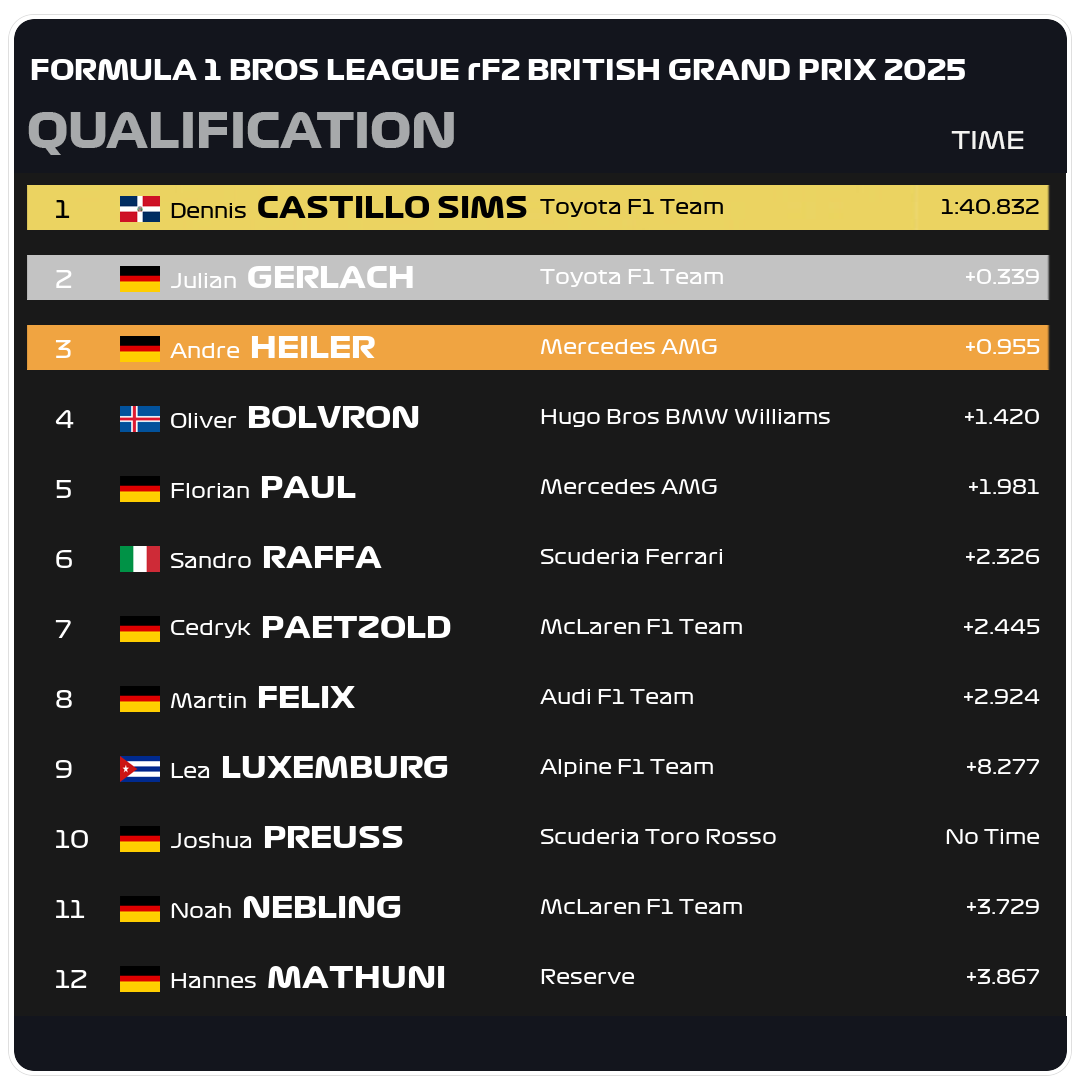
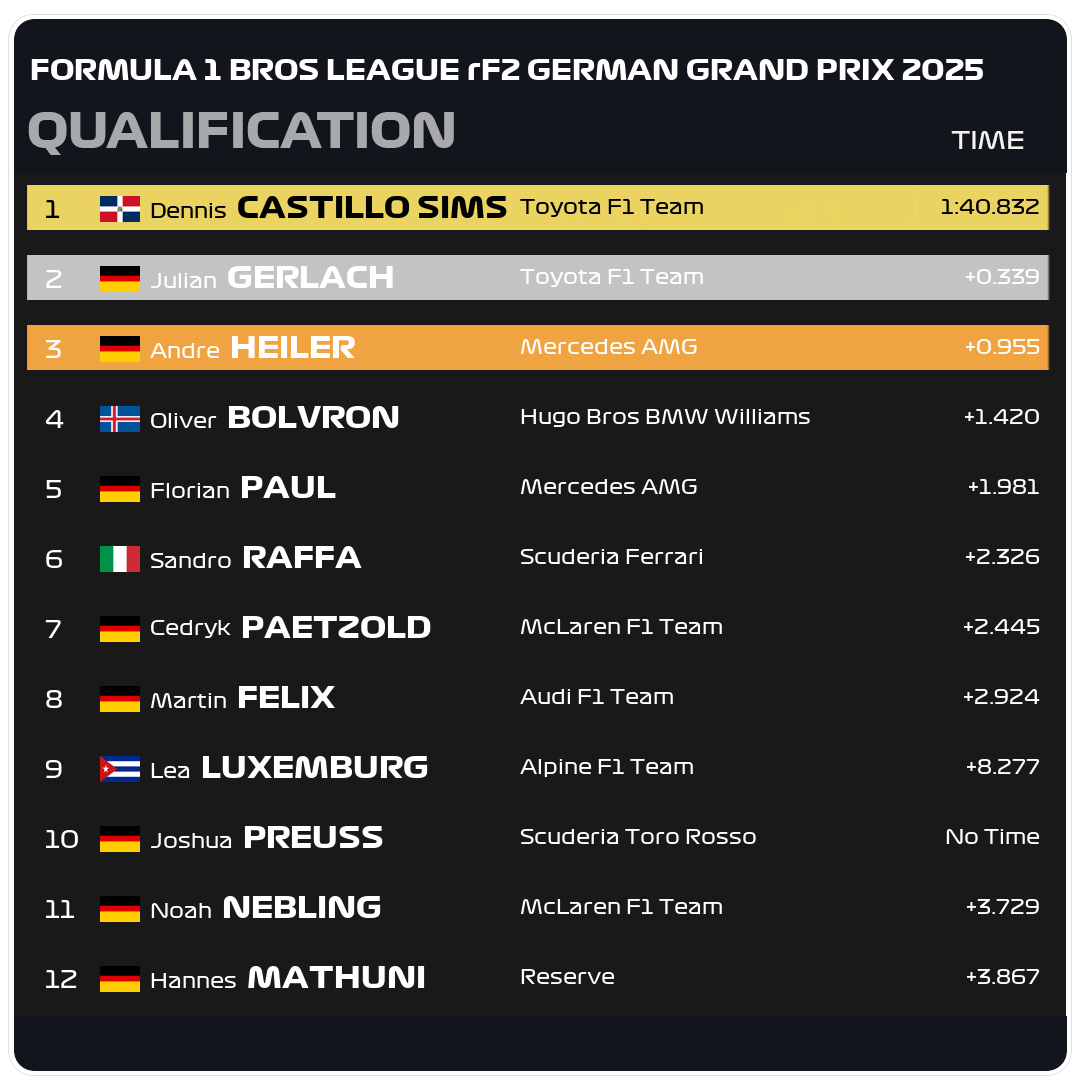
Rennergebnis im Insta format

diff --git a/main.py b/main.py
@@ -110,6 +110,7 @@ first_team_and_points = 232
 position_text = 556
 left_allignment = 620
 name_size = 20
+name_size_insta = 16
 row_height = 42
 
 fastest_lap_position = (556, 1006)
@@ -137,6 +138,7 @@ winner_number_position = (450, 80)
 winner_team_size = 55
 winner_name_pos = (288, 815)
 winner_name_size = 42
+
 #winner = Winner([])
 fastest_lap_driver = fastest_lap()
 
@@ -176,6 +178,7 @@ race_titel = ImageFont.truetype("./fonts/Formula1-Bold_web.ttf", size=34)
 race_titel_insta = ImageFont.truetype("./fonts/Formula1-Bold_web.ttf", size=28)
 race_classification = ImageFont.truetype("./fonts/Formula1-Bold_web.ttf", size=56)
 regular = ImageFont.truetype("./fonts/Formula1-Regular_web.ttf", size=name_size)
+insta = ImageFont.truetype("./fonts/Formula1-Regular_web.ttf", size=name_size_insta)
 penalty_font = ImageFont.truetype("./fonts/Formula1-Regular_web.ttf", size=penalty_text_size)
 position_font = ImageFont.truetype("./fonts/Formula1-Regular_web.ttf", size=24)
 winner_team_font = ImageFont.truetype("./fonts/Formula1-Wide_web.ttf", size=winner_team_size)
@@ -188,17 +191,21 @@ insta_height = 1080
 insta_width = 1080
 insta_row_height = 45
 insta_row_gap = 25
-insta_position_text = 55
+insta_position_text = 45
 insta_y_offset = (insta_row_height + insta_row_gap)
-insta_left_allignment = 120
+insta_left_allignment = 100
 insta_first_name = 218
 insta_race_titel_pos =(30, 70)
-insta_team_alignment = (600,int(230 - (insta_row_height / 2)))
+insta_team_alignment = (520,int(230 - (insta_row_height / 2)))
 team_logo_alignment = (1085,207)
 insta_team_name_allignment = 540
 insta_quali_time_allignment = 1040
 insta_points_allignment = 1017
 insta_quali_penalty_x = insta_width - (insta_width -  insta_quali_time_allignment) - 110
+insta_racetime_alignment = 950
+insta_race_penalty_pos = insta_racetime_alignment - 120
+insta_fastest_lap_position = (insta_position_text, 1045)
+insta_race_info_pos = 1060
 
 ### Arrays
 xml_export = []
@@ -515,6 +522,232 @@ def create_rennergebnis_page_2(data, filename="output/rennergebnisse_seite2.png"
     final_image.save(filename, format="PNG")
     print("Image saved as "+ filename)
 
+def create_insta_rennergebnis_page_1(data, filename="insta/insta_rennergebnisse_seite1.png"):
+    # Create a transparent base image (RGBA mode)  
+    final_image = Image.new("RGBA", (insta_width, insta_height), (0, 0, 0, 0))  # Fully transparent
+    background = Image.open("./images/Raceresult_Insta_1.png").convert("RGBA")
+
+    # Paste images onto the final image at specified positions
+    final_image.paste(background, (0, 0), background)  # The third argument is the mask for transparency
+    draw = ImageDraw.Draw(final_image)
+
+    # Draw Racetitel with semi-transparency
+    draw.text((insta_race_titel_pos[0], insta_race_titel_pos[1]), name_rennen, font=race_titel_insta, fill=(255, 255, 255, 255), anchor="lm")
+
+    ### Fill Positions
+    position = 0
+    for driver in data:
+        # Draw the rest of row     
+        bbox = draw.textbbox((-100, -100), driver.Vorname, font=regular)
+        name_length = bbox[2] - bbox[0]
+        
+        if(position == 0):
+            gained_points = "+25"
+        elif(position == 1):
+            gained_points = "+18"
+        elif(position == 2):
+            gained_points = "+15"
+        elif(position == 3):
+            gained_points = "+12"
+        elif(position == 4):
+            gained_points = "+10"
+        elif(position == 5):
+            gained_points = "+8"
+        elif(position == 6):
+            gained_points = "+6"
+        elif(position == 7):
+            gained_points = "+4"
+        elif(position == 8):
+            gained_points = "+2"
+        elif(position == 9):
+            gained_points = "+1"
+        else:
+            gained_points = "+0"
+
+        
+        if(position == 0):
+            #Draw Position
+            draw.text((insta_position_text, insta_first_name + (position * insta_y_offset)), str(position + 1), font=position_font, fill=(0, 0, 0, 255), anchor="lb")            
+            #Draw Flag
+            flag_image = Image.open("./flags/" + driver.Nation + ".png").convert("RGBA")
+            flag_image = flag_image.resize((flag_width, flag_height))
+            final_image.paste(flag_image, (insta_left_allignment, insta_first_name + (position * insta_y_offset) - flag_y_offset), flag_image)
+            #Vorname
+            draw.text((insta_left_allignment + flag_width + spacer, insta_first_name + (position * insta_y_offset)), driver.Vorname, font=regular, fill=(0, 0, 0, 255), anchor="lb")
+            #Nachname
+            draw.text((insta_left_allignment  + flag_width + spacer + name_length + spacer, insta_first_name + (position * insta_y_offset)), driver.Nachname.upper(), font=bold, fill=(0, 0, 0, 255), anchor="lb")
+            #Teamname
+            #draw.text((insta_team_alignment[0] , insta_team_alignment[1] + (position * insta_y_offset)), driver.Team.upper(), font=insta, fill=(0, 0, 0, 255), anchor="lm")
+            #Team Logo
+            logo = Image.open("./team_logos/" + get_team_logo(driver.Team)).convert("RGBA")
+            logo = logo.resize(team_logo_scaled)
+            # Paste images onto the final image at specified positions
+            final_image.paste(logo, (insta_team_alignment[0] + 2*flag_width, insta_team_alignment[1] + (position * insta_y_offset) - flag_y_offset), logo)
+            draw = ImageDraw.Draw(final_image)
+            #Zeit
+            td = datetime.timedelta(seconds=float(winner.finish_time))
+            # Format as mm:ss.SSS
+            minutes, sec = divmod(td.total_seconds(), 60)
+            formatted = f"{int(minutes):02}:{sec:06.3f}"
+            draw.text((insta_racetime_alignment , insta_team_alignment[1] + (position * insta_y_offset)), formatted, font=regular, fill=(0, 0, 0, 255), anchor="rm")
+            #Points
+            draw.text((insta_points_allignment, insta_team_alignment[1] + (position * insta_y_offset)), gained_points, font=pos_bold, fill=(0, 0, 0, 255), anchor="mm")
+        else:
+            #Draw Position
+            draw.text((insta_position_text, insta_first_name + (position * insta_y_offset)), str(position + 1), font=position_font, fill=(255,255,255, 255), anchor="lb")            
+            #Draw Flag
+            flag_image = Image.open("./flags/" + driver.Nation + ".png").convert("RGBA")
+            flag_image = flag_image.resize((flag_width, flag_height))
+            final_image.paste(flag_image, (insta_left_allignment, insta_first_name + (position * insta_y_offset) - flag_y_offset), flag_image)
+            #Vorname
+            draw.text((insta_left_allignment + flag_width + spacer, insta_first_name + (position * insta_y_offset)), driver.Vorname, font=regular, fill=(255, 255, 255, 255), anchor="lb")
+            #Nachname
+            draw.text((insta_left_allignment  + flag_width + spacer + name_length + spacer, insta_first_name + (position * insta_y_offset)), driver.Nachname.upper(), font=bold, fill=(255, 255, 255, 255), anchor="lb")
+            #Teamname
+           #draw.text((insta_team_alignment[0] , insta_team_alignment[1] + (position * insta_y_offset)), driver.Team.upper(), font=insta, fill=(255, 255, 255, 255), anchor="lm")
+            #Team Logo
+            logo = Image.open("./team_logos/" + get_team_logo(driver.Team)).convert("RGBA")
+            logo = logo.resize(team_logo_scaled)
+            # Paste images onto the final image at specified positions
+            final_image.paste(logo, (insta_team_alignment[0] + 2*flag_width, insta_team_alignment[1] + (position * insta_y_offset) - flag_y_offset), logo)
+            draw = ImageDraw.Draw(final_image)
+            #Zeit
+            if (driver.finish_time == "DNS"):
+                draw.text((insta_racetime_alignment , insta_team_alignment[1] + (position * insta_y_offset)), "DNS", font=regular, fill=(255, 255, 255, 255), anchor="rm")
+            elif (driver.finish_time == "DNF"):
+                draw.text((insta_racetime_alignment , insta_team_alignment[1] + (position * insta_y_offset)), "DNF", font=regular, fill=(255, 255, 255, 255), anchor="rm")            
+            elif ("Lap" in driver.finish_time):
+                draw.text((insta_racetime_alignment , insta_team_alignment[1] + (position * insta_y_offset)), driver.finish_time, font=regular, fill=(255, 255, 255, 255), anchor="rm")
+            else:
+                time_behind_leader = float(driver.finish_time) - float(winner.finish_time)
+                if(time_behind_leader < 10):
+                    draw.text((insta_racetime_alignment , insta_team_alignment[1] + (position * insta_y_offset)), f"+0{(time_behind_leader):.3f}", font=regular, fill=(255, 255, 255, 255), anchor="rm")
+                else:
+                    draw.text((insta_racetime_alignment , insta_team_alignment[1] + (position * insta_y_offset)), f"+{(time_behind_leader):.3f}", font=regular, fill=(255, 255, 255, 255), anchor="rm")
+            #Points
+            draw.text((insta_points_allignment, insta_team_alignment[1] + (position * insta_y_offset)), gained_points, font=pos_bold, fill=(255, 255, 255, 255), anchor="mm")
+            #Penatly
+            if (driver.penalty is not None):
+                draw.text((insta_race_penalty_pos , insta_team_alignment[1] + (position * insta_y_offset)), ("+" + str(driver.penalty) + " sek") , font=penalty_font, fill=(255, 0, 0, 255), anchor="rm")
+
+
+        # Update position for the next name
+        position += 1
+
+    ### Draw fastest Lap
+    bbox = draw.textbbox((-100, -100), "FASTEST LAP", font=regular)
+    name_length = bbox[2] - bbox[0]
+    draw.text(insta_fastest_lap_position, "FASTEST LAP", font=regular, fill=(255, 0, 255, 255), anchor="lm")
+    draw.text((insta_fastest_lap_position[0] + name_length + spacer + 5, insta_fastest_lap_position[1]), f"{fastest_lap_driver.Nachname}     {fastest_lap_driver.Team}     {fastest_lap_driver.get_laptime_formatted()}", font=regular, fill=(255, 255, 255, 255), anchor="lm")
+
+    # Save the final image
+    final_image.save(filename, format="PNG")
+    print("Image saved as "+ filename)
+
+def create_insta_rennergebnis_page_2(data, filename="insta/insta_rennergebnisse_seite2.png"):
+    # Create a transparent base image (RGBA mode)  
+    final_image = Image.new("RGBA", (insta_width, insta_height), (0, 0, 0, 0))  # Fully transparent
+    background = Image.open("./images/Raceresult_Insta_2.png").convert("RGBA")
+
+    # Paste images onto the final image at specified positions
+    final_image.paste(background, (0, 0), background)  # The third argument is the mask for transparency
+    draw = ImageDraw.Draw(final_image)
+
+    # Draw Racetitel with semi-transparency
+    draw.text((insta_race_titel_pos[0], insta_race_titel_pos[1]), name_rennen, font=race_titel_insta, fill=(255, 255, 255, 255), anchor="lm")
+
+    ### Winner ###
+    position = 0
+    bbox = draw.textbbox((-100, -100), winner.Vorname, font=regular)
+    name_length = bbox[2] - bbox[0]
+    #Draw Position
+    draw.text((insta_position_text, insta_first_name + (position * insta_y_offset)), str(position + 1), font=position_font, fill=(0, 0, 0, 255), anchor="lb")            
+    #Draw Flag
+    flag_image = Image.open("./flags/" + winner.Nation + ".png").convert("RGBA")
+    flag_image = flag_image.resize((flag_width, flag_height))
+    final_image.paste(flag_image, (insta_left_allignment, insta_first_name + (position * insta_y_offset) - flag_y_offset), flag_image)
+    #Vorname
+    draw.text((insta_left_allignment + flag_width + spacer, insta_first_name + (position * insta_y_offset)), winner.Vorname, font=regular, fill=(0, 0, 0, 255), anchor="lb")
+    #Nachname
+    draw.text((insta_left_allignment  + flag_width + spacer + name_length + spacer, insta_first_name + (position * insta_y_offset)), winner.Nachname.upper(), font=bold, fill=(0, 0, 0, 255), anchor="lb")
+    #Teamname
+    #draw.text((insta_team_alignment[0] , insta_team_alignment[1] + (position * insta_y_offset)), driver.Team.upper(), font=insta, fill=(0, 0, 0, 255), anchor="lm")
+    #Team Logo
+    logo = Image.open("./team_logos/" + get_team_logo(winner.Team)).convert("RGBA")
+    logo = logo.resize(team_logo_scaled)
+    # Paste images onto the final image at specified positions
+    final_image.paste(logo, (insta_team_alignment[0] + 2*flag_width, insta_team_alignment[1] + (position * insta_y_offset) - flag_y_offset), logo)
+    draw = ImageDraw.Draw(final_image)
+    #Zeit
+    td = datetime.timedelta(seconds=float(winner.finish_time))
+    # Format as mm:ss.SSS
+    minutes, sec = divmod(td.total_seconds(), 60)
+    formatted = f"{int(minutes):02}:{sec:06.3f}"
+    draw.text((insta_racetime_alignment , insta_team_alignment[1] + (position * insta_y_offset)), formatted, font=regular, fill=(0, 0, 0, 255), anchor="rm")
+    #Points
+    draw.text((insta_points_allignment, insta_team_alignment[1] + (position * insta_y_offset)), "+25", font=pos_bold, fill=(0, 0, 0, 255), anchor="mm")
+
+    ### Fill Positions
+    position = 1
+    for driver in data:
+        # Draw the rest of row     
+        bbox = draw.textbbox((-100, -100), driver.Vorname, font=regular)
+        name_length = bbox[2] - bbox[0]
+        
+        gained_points = "+0"    
+
+        #Draw Position
+        draw.text((insta_position_text, insta_first_name + (position * insta_y_offset)), str(position + 12), font=position_font, fill=(255,255,255, 255), anchor="lb")            
+        #Draw Flag
+        flag_image = Image.open("./flags/" + driver.Nation + ".png").convert("RGBA")
+        flag_image = flag_image.resize((flag_width, flag_height))
+        final_image.paste(flag_image, (insta_left_allignment, insta_first_name + (position * insta_y_offset) - flag_y_offset), flag_image)
+        #Vorname
+        draw.text((insta_left_allignment + flag_width + spacer, insta_first_name + (position * insta_y_offset)), driver.Vorname, font=regular, fill=(255, 255, 255, 255), anchor="lb")
+        #Nachname
+        draw.text((insta_left_allignment  + flag_width + spacer + name_length + spacer, insta_first_name + (position * insta_y_offset)), driver.Nachname.upper(), font=bold, fill=(255, 255, 255, 255), anchor="lb")
+        #Teamname
+        #draw.text((insta_team_alignment[0] , insta_team_alignment[1] + (position * insta_y_offset)), driver.Team.upper(), font=insta, fill=(255, 255, 255, 255), anchor="lm")
+        #Team Logo
+        logo = Image.open("./team_logos/" + get_team_logo(driver.Team)).convert("RGBA")
+        logo = logo.resize(team_logo_scaled)
+        # Paste images onto the final image at specified positions
+        final_image.paste(logo, (insta_team_alignment[0] + 2*flag_width, insta_team_alignment[1] + (position * insta_y_offset) - flag_y_offset), logo)
+        draw = ImageDraw.Draw(final_image)
+        #Zeit
+        if (driver.finish_time == "DNS"):
+            draw.text((insta_racetime_alignment , insta_team_alignment[1] + (position * insta_y_offset)), "DNS", font=regular, fill=(255, 255, 255, 255), anchor="rm")
+        elif (driver.finish_time == "DNF"):
+            draw.text((insta_racetime_alignment , insta_team_alignment[1] + (position * insta_y_offset)), "DNF", font=regular, fill=(255, 255, 255, 255), anchor="rm")            
+        elif ("Lap" in driver.finish_time):
+            draw.text((insta_racetime_alignment , insta_team_alignment[1] + (position * insta_y_offset)), driver.finish_time, font=regular, fill=(255, 255, 255, 255), anchor="rm")
+        else:
+            time_behind_leader = float(driver.finish_time) - float(winner.finish_time)
+            if(time_behind_leader < 10):
+                draw.text((insta_racetime_alignment , insta_team_alignment[1] + (position * insta_y_offset)), f"+0{(time_behind_leader):.3f}", font=regular, fill=(255, 255, 255, 255), anchor="rm")
+            else:
+                draw.text((insta_racetime_alignment , insta_team_alignment[1] + (position * insta_y_offset)), f"+{(time_behind_leader):.3f}", font=regular, fill=(255, 255, 255, 255), anchor="rm")
+        #Points
+        draw.text((insta_points_allignment, insta_team_alignment[1] + (position * insta_y_offset)), gained_points, font=pos_bold, fill=(255, 255, 255, 255), anchor="mm")
+        #Penatly
+        if (driver.penalty is not None):
+            draw.text((insta_race_penalty_pos , insta_team_alignment[1] + (position * insta_y_offset)), ("+" + str(driver.penalty) + " sek") , font=penalty_font, fill=(255, 0, 0, 255), anchor="rm")
+
+
+        # Update position for the next name
+        position += 1
+
+    ### Draw fastest Lap
+    bbox = draw.textbbox((-100, -100), "FASTEST LAP", font=regular)
+    name_length = bbox[2] - bbox[0]
+    draw.text(insta_fastest_lap_position, "FASTEST LAP", font=regular, fill=(255, 0, 255, 255), anchor="lm")
+    draw.text((insta_fastest_lap_position[0] + name_length + spacer + 5, insta_fastest_lap_position[1]), f"{fastest_lap_driver.Nachname}     {fastest_lap_driver.Team}     {fastest_lap_driver.get_laptime_formatted()}", font=regular, fill=(255, 255, 255, 255), anchor="lm")
+
+    # Save the final image
+    final_image.save(filename, format="PNG")
+    print("Image saved as "+ filename)
+
+
 def create_quali_page_1(data, filename="output/qualifikation_seite1.png"):
     # Create a transparent base image (RGBA mode)  
     final_image = Image.new("RGBA", (width, height), (0, 0, 0, 0))  # Fully transparent
@@ -799,7 +1032,7 @@ def create_insta_quali_page_1(data, filename="insta/insta_quali_seite1.png"):
             #Nachname
             draw.text((insta_left_allignment  + flag_width + spacer + name_length + spacer, insta_first_name + (position * insta_y_offset)), driver.Nachname.upper(), font=bold, fill=(0, 0, 0, 255), anchor="lb")
             #Teamname
-            draw.text((insta_team_name_allignment , insta_team_alignment[1] + (position * insta_y_offset)), winner.Team, font=regular, fill=(0, 0, 0, 255), anchor="lm")
+            draw.text((insta_team_alignment[0] , insta_team_alignment[1] + (position * insta_y_offset)), winner.Team, font=regular, fill=(0, 0, 0, 255), anchor="lm")
             #Zeit
             if winner.finish_time != "No Time":
                 td = datetime.timedelta(seconds=float(winner.finish_time))
@@ -821,7 +1054,7 @@ def create_insta_quali_page_1(data, filename="insta/insta_quali_seite1.png"):
             #Nachname
             draw.text((insta_left_allignment  + flag_width + spacer + name_length + spacer, insta_first_name + (position * insta_y_offset)), driver.Nachname.upper(), font=bold, fill=(255, 255, 255, 255), anchor="lb")
              #Teamname
-            draw.text((insta_team_name_allignment , insta_team_alignment[1] + (position * insta_y_offset)), driver.Team, font=regular, fill=(255, 255, 255, 255), anchor="lm")
+            draw.text((insta_team_alignment[0] , insta_team_alignment[1] + (position * insta_y_offset)), driver.Team, font=regular, fill=(255, 255, 255, 255), anchor="lm")
             #Zeit
             if (driver.finish_time == "No Time"):
                 draw.text((insta_quali_time_allignment , insta_team_alignment[1] + (position * insta_y_offset)), "No Time", font=regular, fill=(255, 255, 255, 255), anchor="rm")
@@ -913,7 +1146,6 @@ def create_insta_quali_page_2(data, filename="insta/insta_quali_seite2.png"):
     # Save the final image
     final_image.save(filename, format="PNG")
     print("Image saved as "+ filename)
-
 
 def read_raceresult_xml():
     global current_race_number, xml_export, starting_grid
@@ -1709,7 +1941,9 @@ if __name__ == "__main__":
     fahrer_seite1 = rennergebnis[:12]  # First 11 entries for page 1
     fahrer_seite2 = rennergebnis[12:]  # Next 11 entries for page 2    
     create_rennergebnis_page_1(fahrer_seite1)
+    create_insta_rennergebnis_page_1(fahrer_seite1)
     create_rennergebnis_page_2(fahrer_seite2)
+    create_insta_rennergebnis_page_2(fahrer_seite2)
     calculate_wm_rankings()
     
     read_driver_config()
